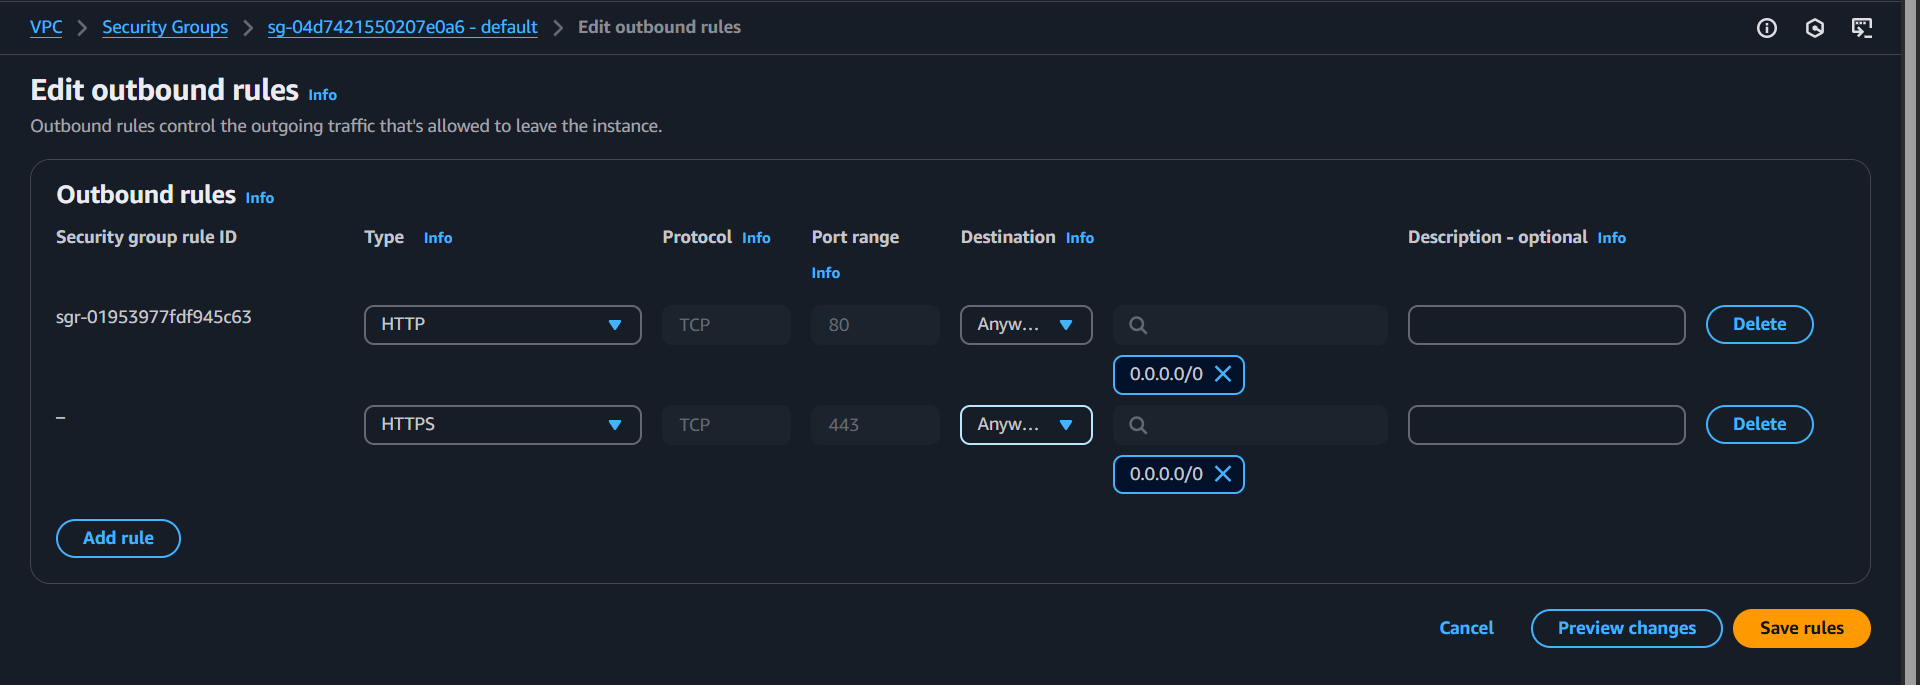
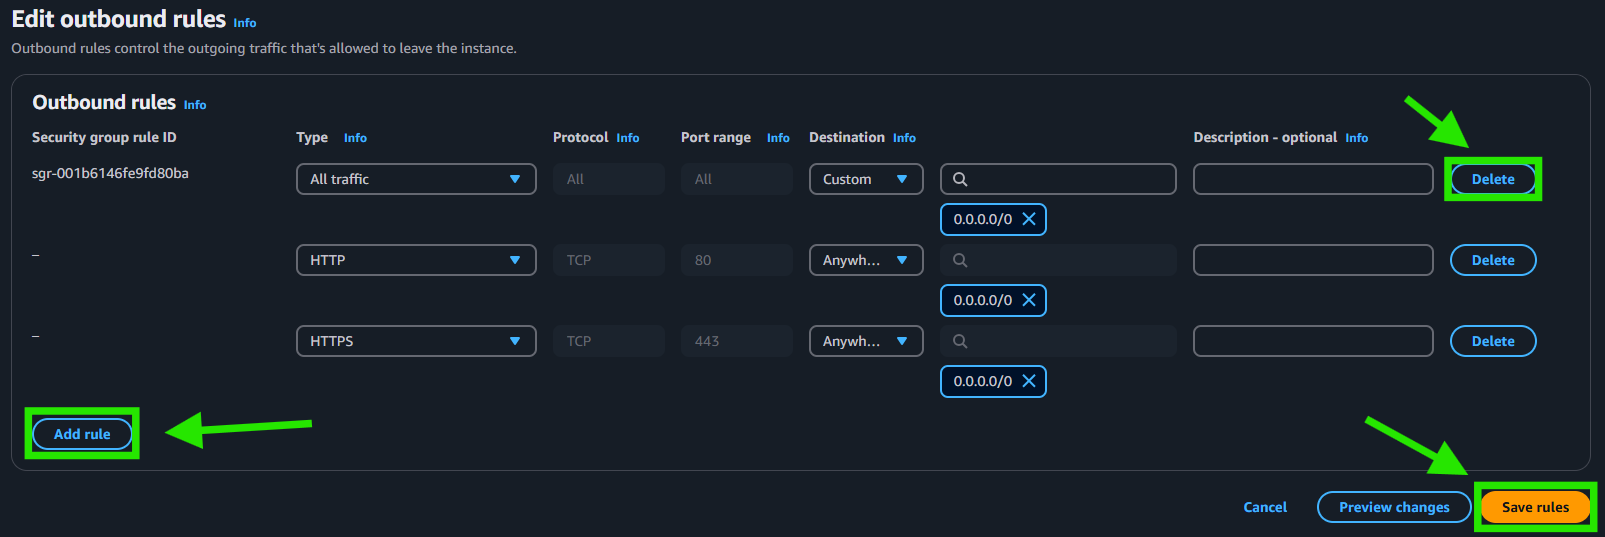
Ajustes finais

diff --git a/README.md b/README.md
@@ -22,11 +22,11 @@ Este projeto tem como objetivo configurar um servidor web na AWS e implementar u
       ![alt text](images/image4.png)
    * ### No security group já existente, adicione as regras de entrada clicando com o botão direito do mouse e selecionando a opção: "Edit inbound rules".
       ![alt text](images/image5.png)
-   * ### Primeiro remova a regra já existente, clicando em "Delete" , depois clique em "Add rule" no canto inferior esquerdo e adicioce a regra de SSH com seu IP (que aparecerá automáticamente), e então adicione outra regra como HTTP e salve tudo clicando em "Save rules" no canto inferior direito.
+   * ### Primeiro remova a regra já existente, clicando em "Delete" , depois clique em "Add rule" no canto inferior esquerdo e adicione a regra de SSH com seu IP (que aparecerá automáticamente), e então adicione outra regra como HTTP e salve tudo clicando em "Save rules" no canto inferior direito.
       ![alt text](images/image6.png)
    * ### Novamente clique o com o botão direito do mouse no security group, e dessa vez selecione "Edit outbound rules" para editar as regras de saída.
       ![alt text](images/image7.png)
-   * ### Remova a regra existente, adicione estas duas (como na imagem) e salve tudo.
+   * ### Delete a regra existente, adicione estas duas regras como "Anywhere-IPv4" e salve:
       ![alt text](images/image8.png)
 ### 3. Criar uma **instância EC2** na AWS:
    * ### Na página inicial do console AWS, pesquise por "EC2".
@@ -36,14 +36,16 @@ Este projeto tem como objetivo configurar um servidor web na AWS e implementar u
       ![alt text](images/image10.png)
    * ### Logo abaixo, em "Key pair", clique em "create new key pair", para criar um novo par de chaves.
       ![alt text](images/image11.png)
-   * ### Crie um par de chaver com as seguintes configurações (como na imagem) e salve.
-      ![alt text](images/image12.png)
+   * ### Crie um par de chaves com as seguintes configurações (como na imagem) e salve.
+      ![alt text](images/image12.png)  
       Observe que iniciará o download da chave em seu computador.
    * ### Em seguida, clique em "Edit" no canto superior direito da seção "Network settings".
    * ### Selecione a VPC préviamente criada, selecione uma sub-net pública, selecione a opção "Enable" em "Auto-assign public IP" e escolha o security group já criado.
       ![alt text](images/image13.png)
    * ### Para finalizar, clique em "Launch instance" no canto inferior direito.
       ![alt text](images/image14.png)
+   **A instância estará pronta para uso, quando este status aparecer:**
+      ![alt text](images/image14_1.png)
 ### 4. Acessar a instância via **SSH** para continuar a configuração
    * 1. Se estiver usando WSL, sua chave se encontrará neste caminho:
       ```bash
@@ -57,10 +59,13 @@ Este projeto tem como objetivo configurar um servidor web na AWS e implementar u
       ```bash
       ssh -i /mnt/c/Users/seuUserWindows/Downloads/suaChave.pem ubuntu@IP_publico_instancia
       ```
+      **Onde encontrar o IP público da instância:**
+      - Pesquisando por "EC2" na AWS, na parte de "Instances" basta selecionar a instância desejada, logo abaixo clicar em "Networking" e ali estará o IP público:
+      ![alt text](images/image14_2.png)
 ## 2⃣ Configuração do Servidor Web
    * 1. Instalar o **Nginx** na EC2:
       ```bash
-      sudo apt update -y
+      sudo apt update
       sudo apt install nginx -y
       ```
    * 2. Iniciar o serviço Nginx:
@@ -170,7 +175,7 @@ Este projeto tem como objetivo configurar um servidor web na AWS e implementar u
 3. Verificar se a notificação foi enviada para o Discord
 4. Reiniciar o Nginx:
    ```bash
-   sudo systenctl start nginx
+   sudo systemctl start nginx
    ```
 5. Confirmar que novas mensagens são geradas corretamente no log, usando:
    ```bash
